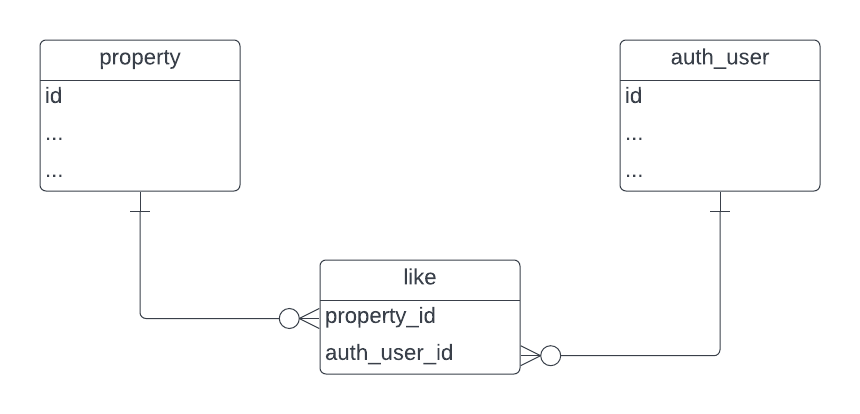
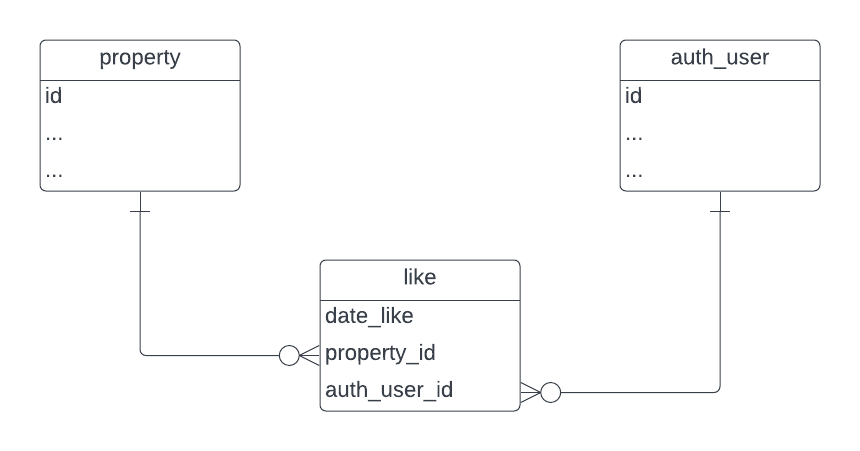
Add optimization section to README

diff --git a/README.md b/README.md
@@ -57,7 +57,15 @@ De acuerdo al diagrama, solo sería necesario crear la tabla like, así:
 
 ```sql
 CREATE TABLE like (
-    property_id INT FOREIGN KEY REFERENCES property(id),
-    auth_user_id INT FOREIGN KEY REFERENCES auth_user(id)
+    date_like DATE,
+    property_id INT,
+    auth_user_id INT,
+    FOREIGN KEY (property_id) REFERENCES property(id),
+    FOREIGN KEY (auth_user_id) REFERENCES auth_user(id)
 );
 ```
+
+Con esta tabla completamente especificado la fecha en la que hizo un like, el usuario que lo hizo y la propiedad a la que lo hizo.
+
+## Optimización
+La consulta que se hace a la base de datos actualmente tiene que hacer una unión de 3 tablas y en una de ellas primero filtra el registro más reciente para cada propiedad (`status_history`). Para mejorar el tiempo de consulta se podría modificar la tabla `property` para que incluya una columna llamada `last_status`. Esta columna tendrá el `id` del último estado registrado para cada propiedad. Esta opción agrega pasos a la ejecución del sistema, dado que cada vez que hay un nuevo estado para una propiedad, aparte de la creación del registro histórico, se tiene que actualizar la información de la propiedad. La ventaja en este caso es que la consulta de propiedades solo tendrá que hacer un join de dos tablas, siendo una de ellas (`status`) muy pequeña.
